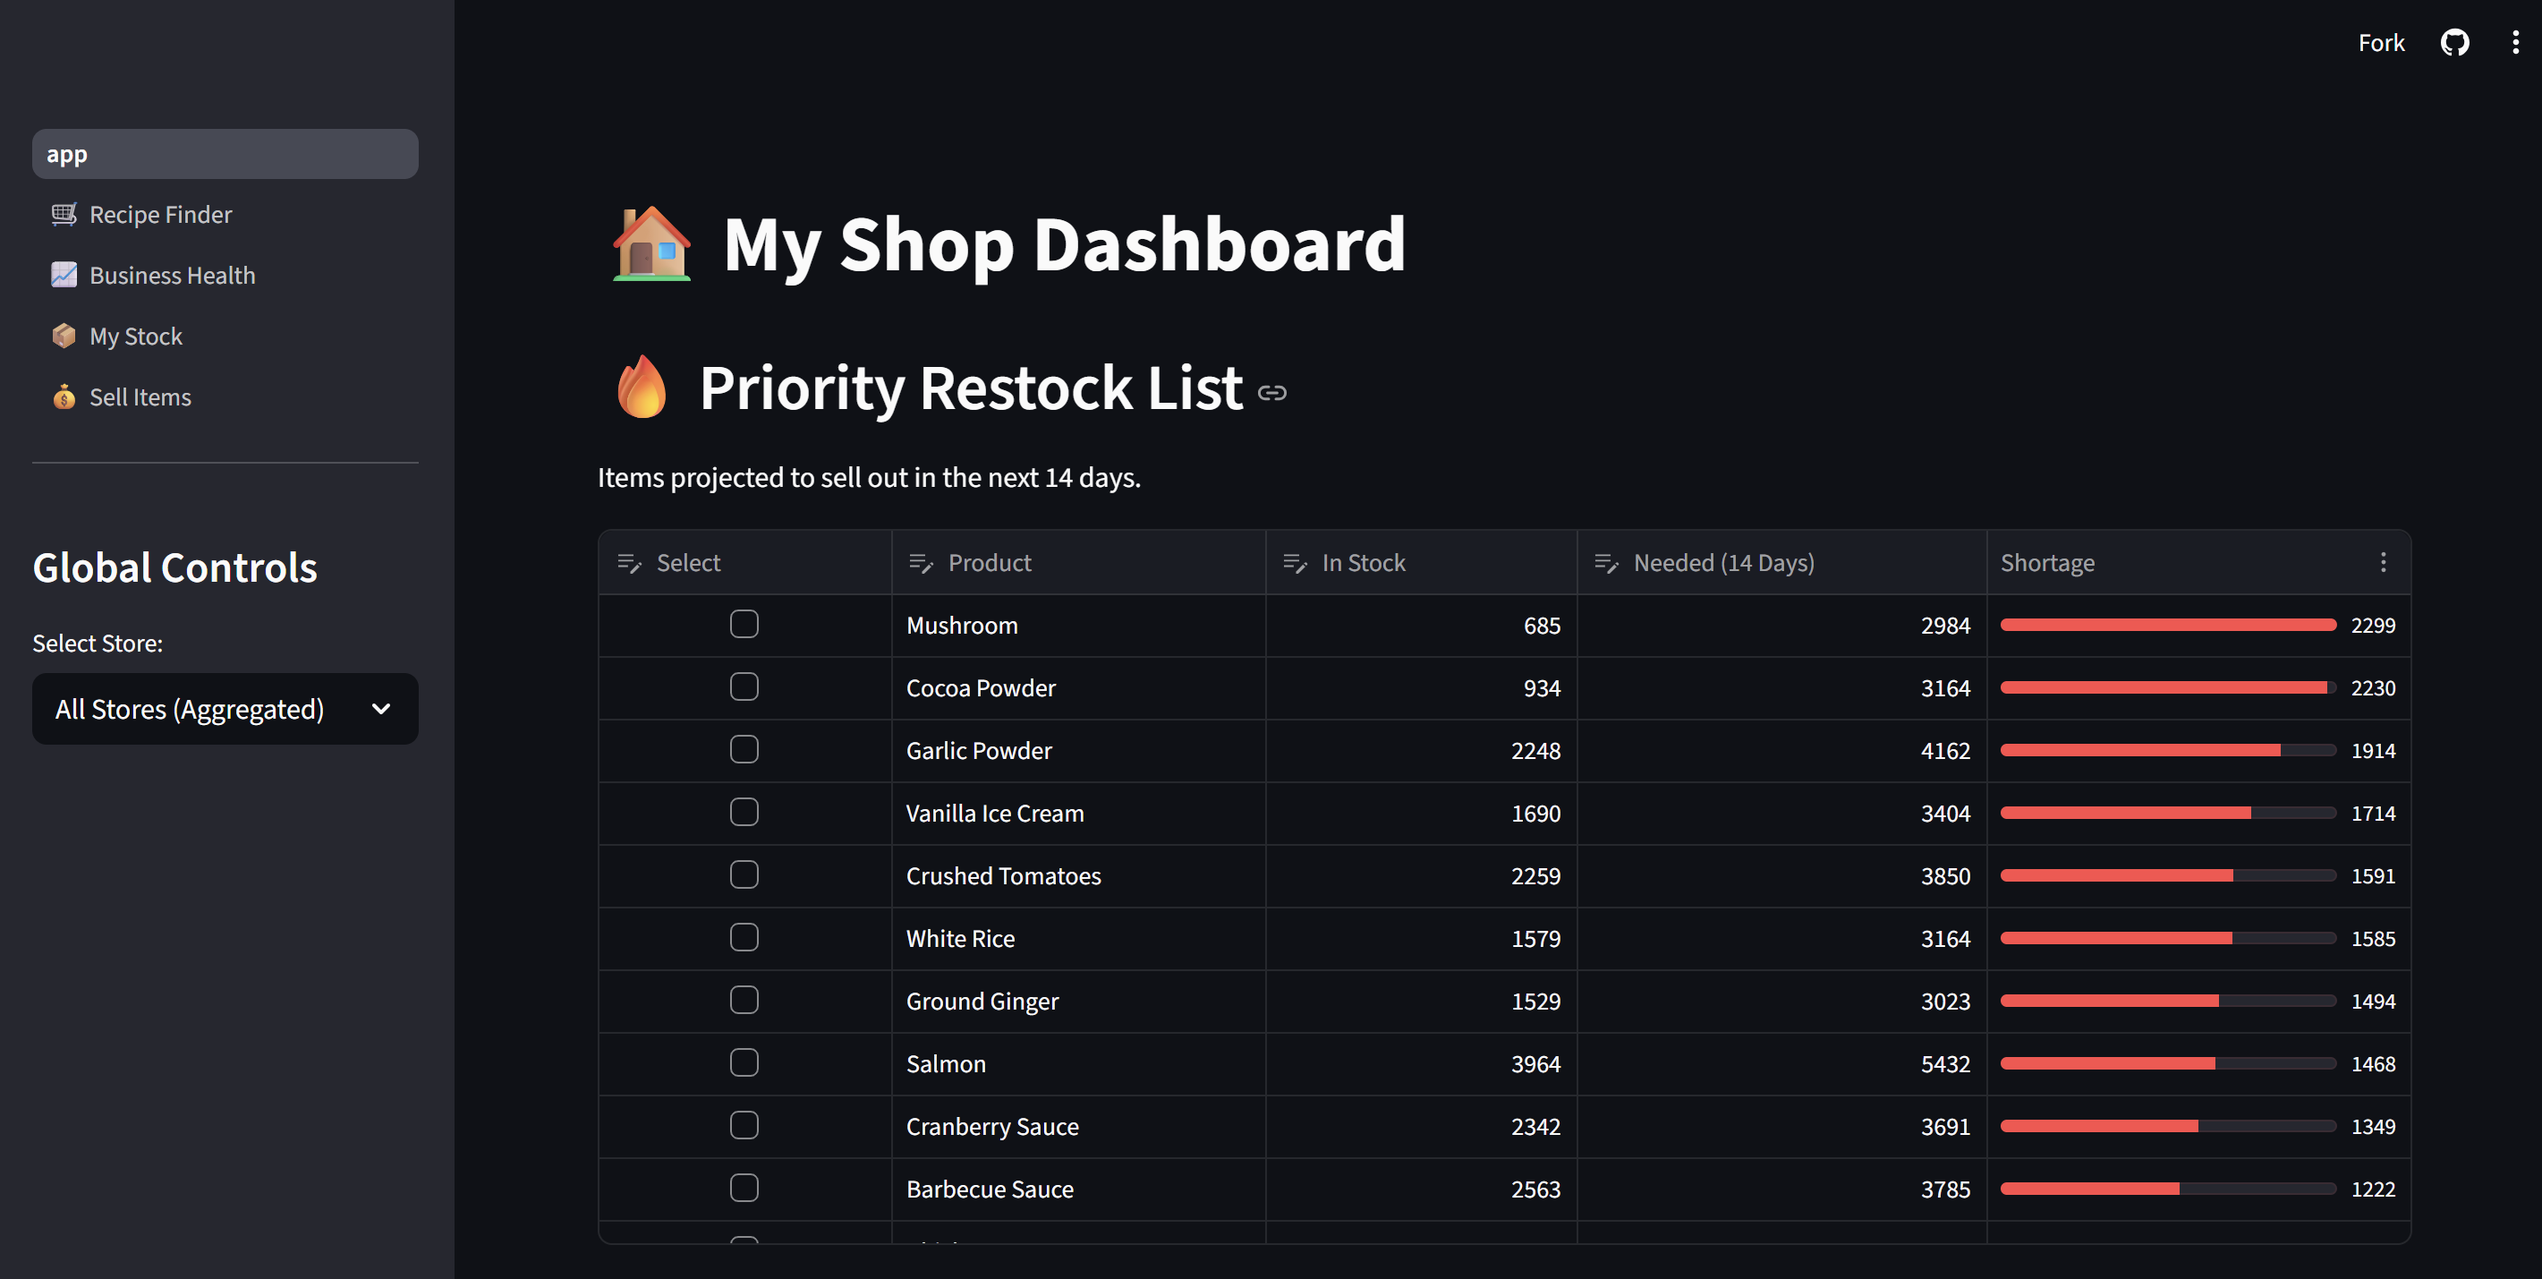
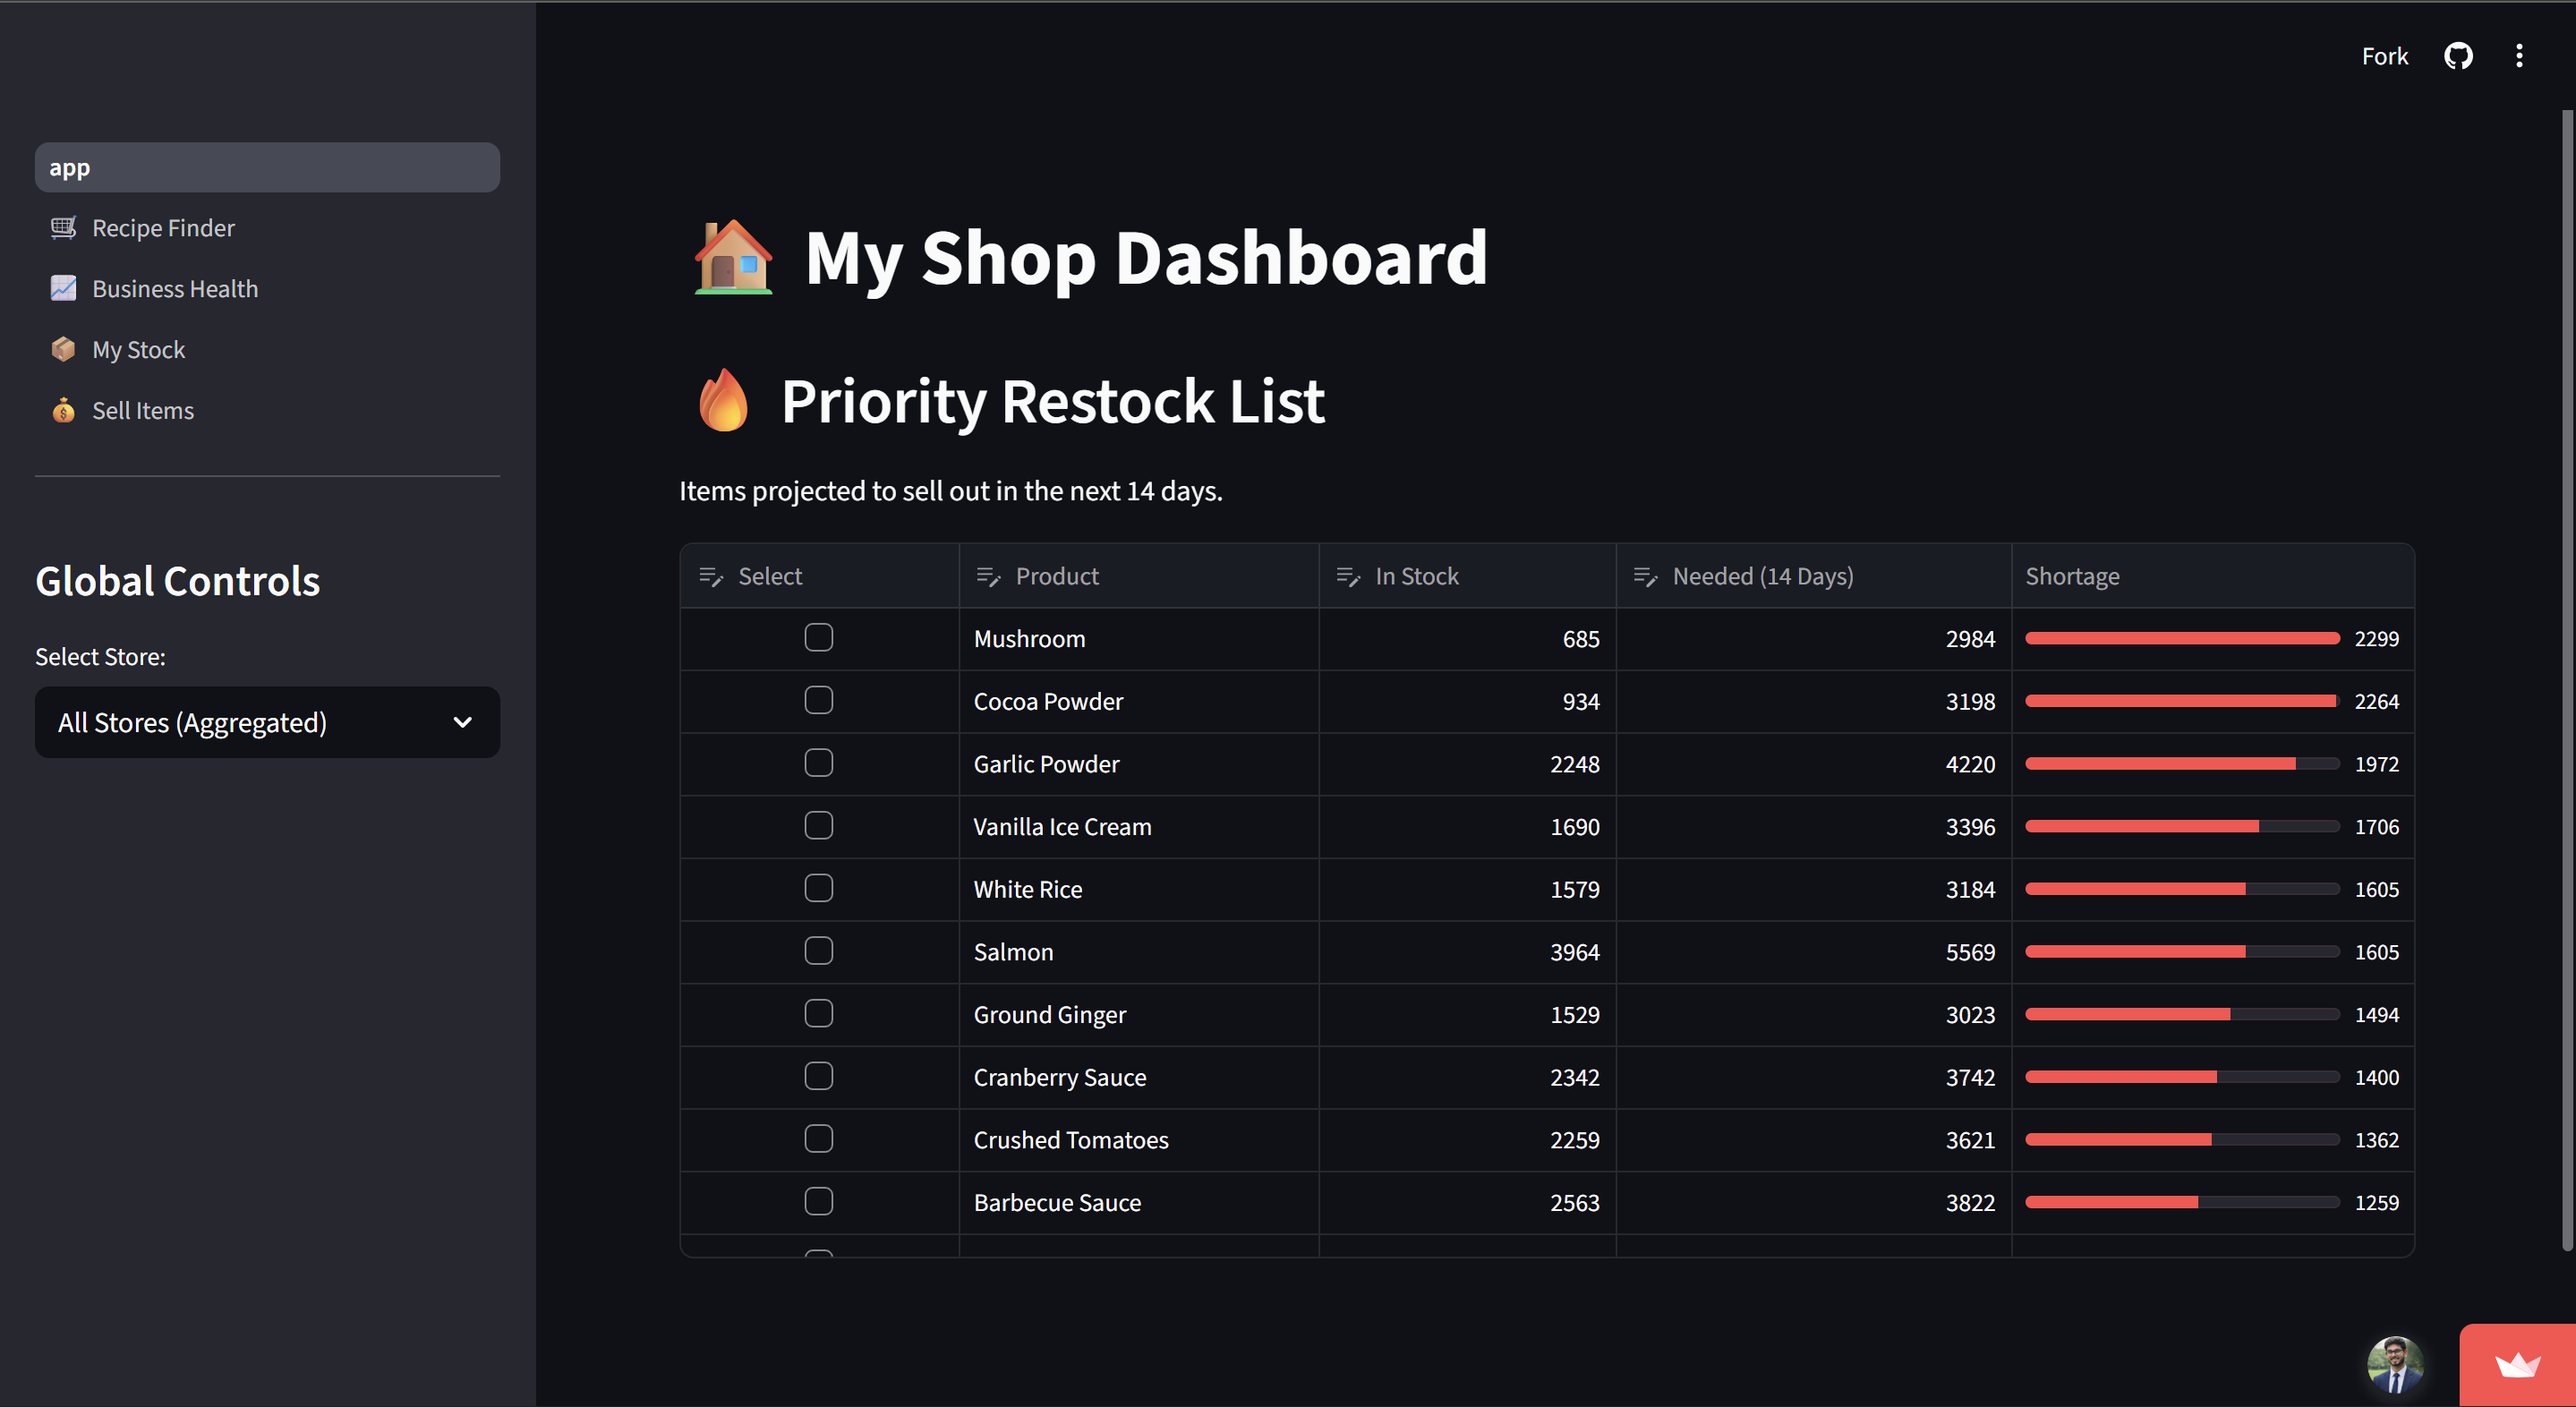
feat: migrated to neon db and upgraded about section

diff --git a/prisma/seed.ts b/prisma/seed.ts
@@ -1,20 +1,21 @@
 // prisma/seed.ts
-import { PrismaClient } from '@prisma/client'
+import { PrismaClient } from "@prisma/client";
 
-const prisma = new PrismaClient()
+const prisma = new PrismaClient();
 
 async function main() {
-  console.log('🌱 Starting project seeding...')
+  console.log("🌱 Starting project seeding...");
 
   // 1. Clear existing data
-  await prisma.project.deleteMany()
+  await prisma.project.deleteMany();
 
   // 2. Define The Projects with CORRECTED PATHS
   const projects = [
     {
       title: "Insight-Zero",
       slug: "insight-zero",
-      description: "The Autonomous Data Steward. A multi-tenant Enterprise Data Intelligence Platform integrating RBAC and Presidio for SOC2-ready PII redaction.",
+      description:
+        "The Autonomous Data Steward. A multi-tenant Enterprise Data Intelligence Platform integrating RBAC and Presidio for SOC2-ready PII redaction.",
       content: `
 ## Overview
 Architected a scalable, multi-tenant Enterprise Data Intelligence Platform using **Turborepo**, **Node.js**, and **FastAPI**.
@@ -26,15 +27,37 @@ Architected a scalable, multi-tenant Enterprise Data Intelligence Platform using
 - **Reporting:** Developed a multi-modal reporting engine using **React-PDF**, generating executive summaries and interactive dashboards.
       `,
       tags: ["Turborepo", "Node.js", "FastAPI", "Pinecone", "Redis"],
-      demoUrl: null, 
+      demoUrl: null,
       githubUrl: "https://github.com/sdiv0503/Insight-zero",
       imageUrl: null, // This handles correctly as "No Image"
       featured: true,
     },
     {
+      title: "Career Journal",
+      slug: "career-journal",
+      description:
+        "A split-architecture developer command center. Features a gamified coding journal ('The Gym') and an AI-powered career growth suite ('The Lab').",
+      content: `
+## Overview
+Architected a production-ready, gamified career platform using **Next.js 15**, **Prisma**, and **Clerk Auth** to help developers track daily habits and optimize their job hunt.
+
+## Key Features
+- **Gamification Engine:** Developed "The Gym" with a dynamic streak system, XP tracking, and unlockable achievements using **PostgreSQL**.
+- **AI Resume Analytics:** Integrated **Gemini 2.5 Flash** for strict ATS scoring, structured feedback, and targeted Job Description gap analysis.
+- **Mock Interviewer:** Engineered a real-time, streaming AI chat interface utilizing the Vercel AI SDK to act as a hiring manager based on the user's specific resume context.
+- **Career Roadmap:** Created an autonomous generator that builds customized, month-by-month technical curriculums to bridge user skill gaps.
+      `,
+      tags: ["Next.js", "TypeScript", "Prisma", "Gemini AI", "Tailwind CSS"],
+      demoUrl: "https://careerjournal2.vercel.app/",
+      githubUrl: "https://github.com/sdiv0503/Career-Journal-2.0",
+      imageUrl: "/images/career-journal.png", 
+      featured: true,
+    },
+    {
       title: "LocalLens",
       slug: "locallens",
-      description: "AI-Powered Demand Forecasting & Inventory Engine. Top 10 Finish in IEEE Gravitas Hackathon.",
+      description:
+        "AI-Powered Demand Forecasting & Inventory Engine. Top 10 Finish in IEEE Gravitas Hackathon.",
       content: `
 ## Achievement
 Secured a Top 10 Finish in the **IEEE Gravitas Hackathon** by engineering a scalable solution for inventory optimization.
@@ -54,7 +77,8 @@ Secured a Top 10 Finish in the **IEEE Gravitas Hackathon** by engineering a scal
     {
       title: "Fit Track",
       slug: "fit-track",
-      description: "Full-Stack Fitness Coaching Platform built with Next.js 14 and Feature-Sliced Design.",
+      description:
+        "Full-Stack Fitness Coaching Platform built with Next.js 14 and Feature-Sliced Design.",
       content: `
 ## Architecture
 Built a robust application using **Next.js** and **TypeScript**, implementing Server-Side Rendering (SSR).
@@ -64,17 +88,24 @@ Built a robust application using **Next.js** and **TypeScript**, implementing Se
 - **Design Pattern:** Designed the frontend architecture using **Feature-Sliced Design (FSD)**, reducing development cycle time by 30%.
 - **Backend:** Constructed a type-safe backend with **PostgreSQL** and **Prisma** to ensure data integrity.
       `,
-      tags: ["Next.js", "TypeScript", "PostgreSQL", "Docker", "FSD", "Tailwind"],
+      tags: [
+        "Next.js",
+        "TypeScript",
+        "PostgreSQL",
+        "Docker",
+        "FSD",
+        "Tailwind",
+      ],
       demoUrl: "https://fittrackthing.vercel.app/",
       githubUrl: "https://github.com/sdiv0503/FitTrack",
-      // FIX: Added leading slash
       imageUrl: "/images/fitTrack.png",
       featured: false,
     },
     {
       title: "SkillSync",
       slug: "skillsync",
-      description: "AI-Powered Career Development Platform generating personalized skill recommendations.",
+      description:
+        "AI-Powered Career Development Platform generating personalized skill recommendations.",
       content: `
 ## Core Features
 - **AI Integration:** Integrated **Hugging Face BERT** to generate personalized skill recommendations.
@@ -85,26 +116,25 @@ Built a robust application using **Next.js** and **TypeScript**, implementing Se
       tags: ["Supabase", "BERT", "Chart.js", "CI/CD", "React"],
       demoUrl: "https://skillsyncjournal.vercel.app/",
       githubUrl: "https://github.com/sdiv0503/AI-powered-Career-Journal",
-      // FIX: Added leading slash
       imageUrl: "/images/skillSync.png",
-      featured: true,
-    }
-  ]
+      featured: false,
+    },
+  ];
 
   for (const project of projects) {
     await prisma.project.create({
-      data: project
-    })
+      data: project,
+    });
   }
 
-  console.log(`✅ Seeded ${projects.length} projects successfully.`)
+  console.log(`✅ Seeded ${projects.length} projects successfully.`);
 }
 
 main()
   .catch((e) => {
-    console.error(e)
-    process.exit(1)
+    console.error(e);
+    process.exit(1);
   })
   .finally(async () => {
-    await prisma.$disconnect()
-  })
+    await prisma.$disconnect();
+  });

diff --git a/src/constants/experience.ts b/src/constants/experience.ts
@@ -7,7 +7,7 @@ export const EXPERIENCE_DATA = [
     date: "May 2024 - July 2024",
     description: [
       "Orchestrated the end-to-end development of 'Shreedhi', a full-stack e-commerce platform.",
-      "Engineered a high-performance frontend using React and Tailwind CSS, increasing user engagement by 40%.",
+      "Engineered a high-performance frontend using React and Tailwind CSS, increasing user engagement by 30%.",
       "Streamlined Agile workflows by executing rigorous API testing via Postman.",
       "Optimized UI for 99% device compatibility across all platforms."
     ],
